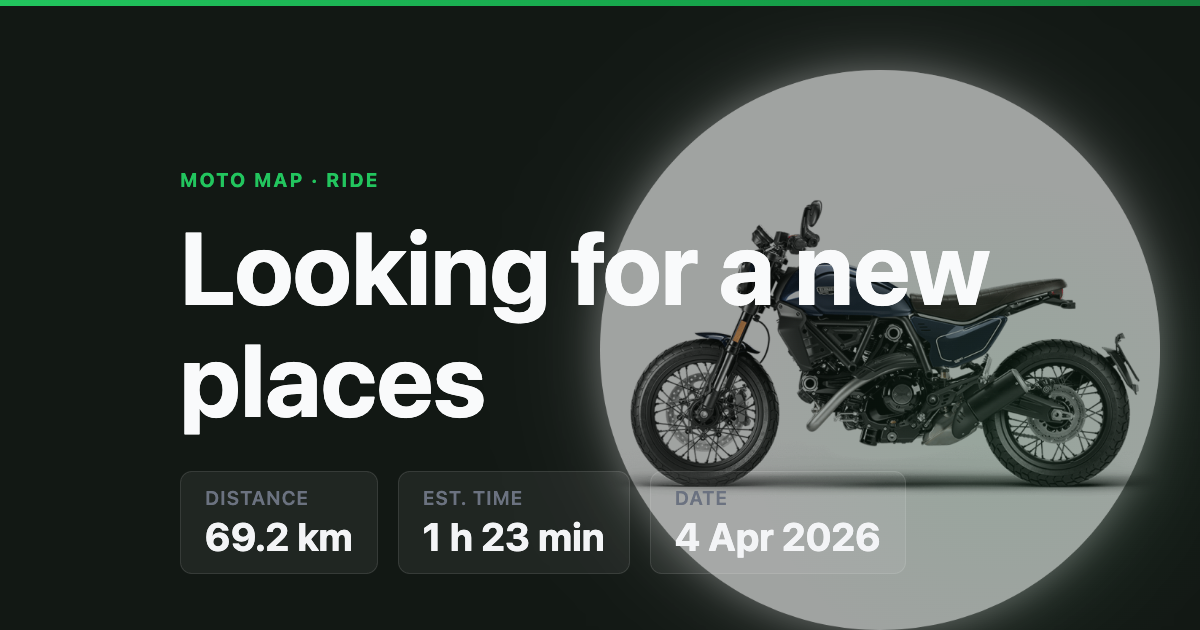
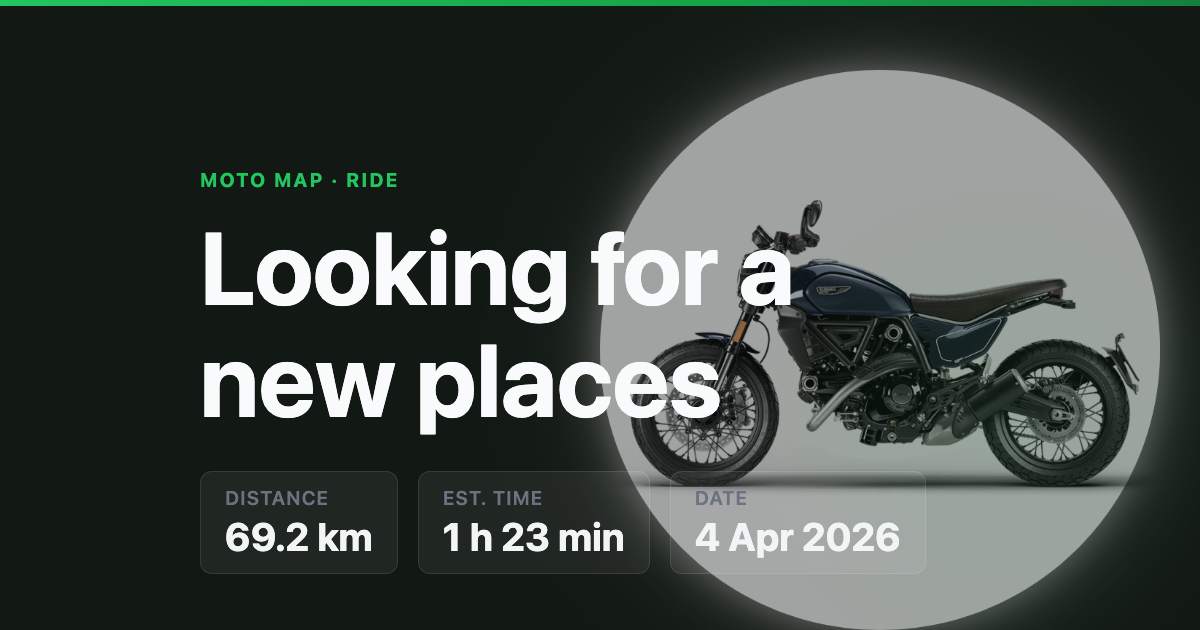
[UPDATE] adjust padding in OG image layout for improved visual consistency

diff --git a/scripts/generate-og-images.js b/scripts/generate-og-images.js
@@ -140,7 +140,7 @@ function buildHtml({ title, distanceFmt, durationFmt, dateFmt, isSiteDefault, mo
     flex-direction: column;
     /* Text/content pinned to the bottom */
     justify-content: flex-end;
-    padding: 56px 180px;
+    padding: 56px 200px;
     overflow: hidden;
   }
   /* top accent bar — sits above moto image (z-index via stacking context) */
